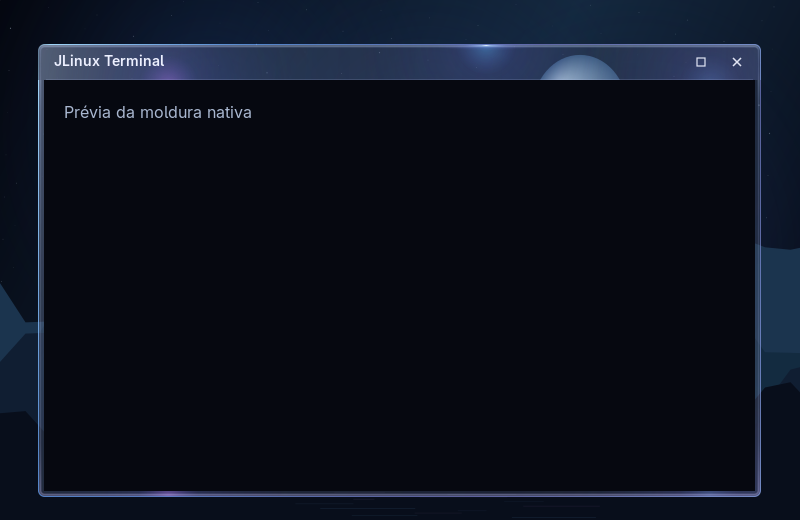
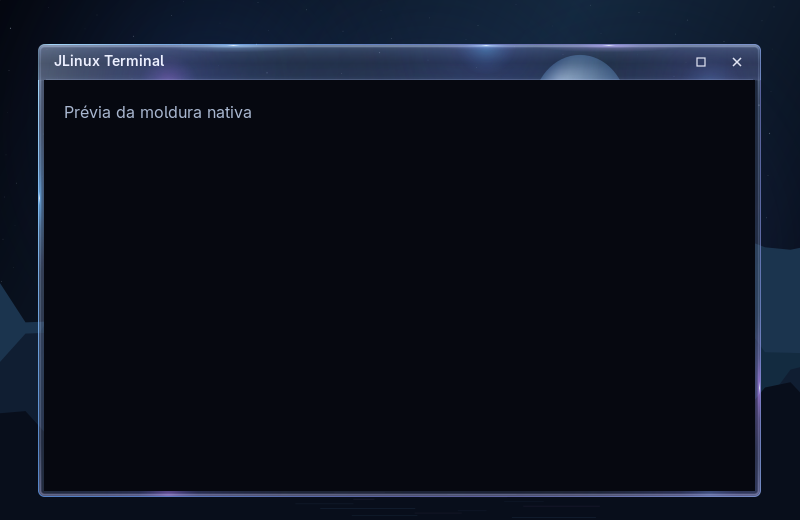
fix: emphasize glass depth and localized window reflections

diff --git a/src/effects/glass.c b/src/effects/glass.c
@@ -102,3 +102,34 @@ bool jlinux_glass_settings(struct jlinux_glass *effects) {
     }
     return true;
 }
+
+void jlinux_glass_window_reflections(cairo_t *cr, struct ui_rect rect, double radius, double header) {
+    cairo_save(cr); rounded(cr, rect, radius); cairo_clip(cr);
+    cairo_pattern_t *sheen = cairo_pattern_create_linear(0, rect.y, 0, rect.y + header);
+    cairo_pattern_add_color_stop_rgba(sheen, 0, .83, .91, 1, .20);
+    cairo_pattern_add_color_stop_rgba(sheen, .18, .59, .73, .95, .10);
+    cairo_pattern_add_color_stop_rgba(sheen, .52, .02, .04, .09, .08);
+    cairo_pattern_add_color_stop_rgba(sheen, .86, .18, .24, .42, .04);
+    cairo_pattern_add_color_stop_rgba(sheen, 1, .65, .72, .94, .12);
+    cairo_save(cr); cairo_rectangle(cr, rect.x, rect.y, rect.width, header); cairo_clip(cr);
+    cairo_set_source(cr, sheen); cairo_paint(cr); cairo_restore(cr); cairo_pattern_destroy(sheen);
+    const double lights[4][7] = {
+        {rect.x + rect.width * .27, rect.y + 1, 1, .09, .60, .80, 1},
+        {rect.x + rect.width * .79, rect.y + 1, 1, .09, .73, .65, 1},
+        {rect.x + 1, rect.y + rect.height * .34, .09, 1, .39, .72, 1},
+        {rect.x + rect.width - 1, rect.y + rect.height * .76, .09, 1, .73, .49, 1},
+    };
+    for (int i = 0; i < 4; i++) {
+        cairo_save(cr); cairo_translate(cr, lights[i][0], lights[i][1]);
+        cairo_scale(cr, lights[i][2], lights[i][3]);
+        cairo_pattern_t *light = cairo_pattern_create_radial(0, 0, 0, 0, 0, 76);
+        cairo_pattern_add_color_stop_rgba(light, 0, .93, .97, 1, .88);
+        cairo_pattern_add_color_stop_rgba(light, .09, lights[i][4], lights[i][5], lights[i][6], .60);
+        cairo_pattern_add_color_stop_rgba(light, .42, lights[i][4], lights[i][5], lights[i][6], .22);
+        cairo_pattern_add_color_stop_rgba(light, 1, lights[i][4], lights[i][5], lights[i][6], 0);
+        cairo_set_source(cr, light); cairo_paint(cr); cairo_pattern_destroy(light); cairo_restore(cr);
+    }
+    struct ui_rect inner = {rect.x + 1.5, rect.y + 1.5, rect.width - 3, rect.height - 3};
+    rounded(cr, inner, radius - 1.5); cairo_set_source_rgba(cr, .74, .85, 1, .17);
+    cairo_set_line_width(cr, .7); cairo_stroke(cr); cairo_restore(cr);
+}

diff --git a/tests/window-frame.c b/tests/window-frame.c
@@ -19,6 +19,20 @@ int main(int argc, char **argv) {
         jlinux_window_frame_focus(&frame, false); CHECK(frame.parts[0]->opacity < 1);
         jlinux_window_frame_focus(&frame, true); CHECK(frame.parts[0]->opacity == 1);
     }
+    void *pixels; uint32_t format; size_t stride;
+    CHECK(wlr_buffer_begin_data_ptr_access(frame.parts[0]->buffer, WLR_BUFFER_DATA_PTR_ACCESS_READ,
+        &pixels, &format, &stride));
+    uint32_t lit = *(uint32_t *)((unsigned char *)pixels + stride + 195 * 4);
+    wlr_buffer_end_data_ptr_access(frame.parts[0]->buffer);
+    effects.reflection = false;
+    CHECK(jlinux_window_frame_update(&frame, 711, 411, "JLinux Terminal", effects, false));
+    CHECK(wlr_buffer_begin_data_ptr_access(frame.parts[0]->buffer, WLR_BUFFER_DATA_PTR_ACCESS_READ,
+        &pixels, &format, &stride));
+    uint32_t plain = *(uint32_t *)((unsigned char *)pixels + stride + 195 * 4);
+    wlr_buffer_end_data_ptr_access(frame.parts[0]->buffer);
+    CHECK((lit >> 24) > (plain >> 24));
+    effects.reflection = true;
+    CHECK(jlinux_window_frame_update(&frame, 711, 411, "JLinux Terminal", effects, false));
     if (argc == 3 && !strcmp(argv[1], "--preview")) {
         cairo_surface_t *image = cairo_image_surface_create(CAIRO_FORMAT_ARGB32, 800, 520);
         cairo_t *cr = cairo_create(image); ui_wallpaper(cr, 800, 520);

diff --git a/src/renderer/window-frame.c b/src/renderer/window-frame.c
@@ -50,6 +50,10 @@ bool jlinux_window_frame_update(struct jlinux_window_frame *frame, int width, in
         int material_height = i == 0 ? header + JLINUX_FRAME_RADIUS : full_height;
         jlinux_glass_paint(cr, (struct ui_rect){.5, .5, full_width - 1, material_height - 1},
             JLINUX_FRAME_RADIUS, NULL, 0, 0, effects);
+        if (effects.reflection) {
+            jlinux_glass_window_reflections(cr,
+                (struct ui_rect){.5, .5, full_width - 1, full_height - 1}, JLINUX_FRAME_RADIUS, header);
+        }
         if (i == 0) {
             cairo_save(cr); cairo_rectangle(cr, 16, 3, full_width - 108, header - 6); cairo_clip(cr);
             ui_text(cr, title ? title : "JLinux", 16, 8, 14, true, 0xedf0ff); cairo_restore(cr);

diff --git a/src/effects/glass.h b/src/effects/glass.h
@@ -2,6 +2,7 @@
 #define JLINUX_GLASS_H
 #include "../toolkit/painter.h"
 struct jlinux_glass { bool blur, tint, reflection; };
+void jlinux_glass_window_reflections(cairo_t *cr, struct ui_rect rect, double radius, double header);
 bool jlinux_glass_settings(struct jlinux_glass *effects);
 void jlinux_glass_paint(cairo_t *cr, struct ui_rect rect, double radius,
     cairo_surface_t *backdrop, double origin_x, double origin_y,

diff --git a/TASKS.md b/TASKS.md
@@ -167,3 +167,9 @@ Brilho do contorno externo na ponta esquerda da barra reduzido de 0,95 para 0,40
 **Feedback visual do usuário:** base inicial de vidro, cabeçalhos retangulares, bordas iluminadas e cantos discretos aprovada como versão inicial após o reinício anterior. Preservar essa direção; isso não conclui o Glass completo.
 
 **WM-MAX · ativação realizada:** usuário autorizou reinício e a versão nova foi iniciada na sessão DRM principal, com Codex, painel e dock mapeados. Pendente avaliação física pelo usuário; testes automatizados já registrados acima.
+
+## Vidro mais evidente nas janelas — fix/window-glass-depth
+
+- Cabeçalho com reflexão em camadas e pontos de luz no topo/laterais, contorno interno fino para destacar espessura. Efeito exclusivo das molduras em effects/, sem alterar dock/barra, geometria ou hit testing. REFLECTION desativado remove o acabamento adicional; sem animação ou timer novo.
+- Oito testes release e ASan/UBSan passaram; teste do componente compara transparência do brilho com/sem reflexão. Prévia inspecionada e atualizada. Sem blur/refração nas molduras ou benchmark GPU/energia.
+- Sessão DRM reiniciada usando autorização do usuário, com Codex/painel/dock mapeados. Pendente avaliação visual do usuário.

diff --git a/docs/validation.md b/docs/validation.md
@@ -97,3 +97,7 @@ Prévia de componentes atualizada. Sessão DRM corrente preservada e ainda usa a
 ### Ativação da maximização na sessão principal
 
 Usuário autorizou novo reinício da sessão. Supervisor anterior encerrado normalmente e sessão iniciada com a versão feature/window-maximize via `jlinux-session --drm --codex`. Logs confirmam AMD Radeon/GLES2, saída HDMI-A-1 e Codex/wallpaper/painel/dock mapeados. Maximizar/restaurar e a correção da área útil agora estão no compositor da sessão principal; teste físico e avaliação do usuário continuam pendentes.
+
+## Reflexos adicionais das janelas — fix/window-glass-depth
+
+Oito testes release e ASan/UBSan passaram. Teste de moldura adicional confirma que desativar REFLECTION remove o brilho extra (comparação de alpha em ponto iluminado), mantendo a tonalização. Prévia nativa inspecionada. Nova versão aplicada por reinício autorizado da sessão DRM; Codex/painel/dock mapeados. Sem benchmark ou validação visual física pelo assistente. Blur/refração nas molduras permanecem pendentes.

diff --git a/docs/visual-style.md b/docs/visual-style.md
@@ -65,3 +65,7 @@ O cabeçalho das janelas permanece retangular, com vidro semelhante ao dock. Con
 ### Maximização e área útil
 
 O cabeçalho aprovado ganha botão maximizar/restaurar junto ao fechar. Maximizar mantém a moldura e ocupa a área útil restante da saída central, respeitando barra e dock; restaurar recupera posição/tamanho e mantém o cabeçalho acessível caso a área útil tenha mudado. O dock fica centralizado na área abaixo da barra. Multimonitor completo continua pendente.
+
+### Profundidade adicional nas molduras
+
+Cabeçalho retangular e cantos de 6 px preservados. Reflexo vertical em camadas, dois pontos de luz no topo e dois nas bordas laterais reforçam o aspecto de vidro. Contorno interno fino realça espessura. O acabamento adicional pertence a REFLECTION e não altera o material do dock/barra ou o conteúdo do aplicativo. São reflexos estáticos estilizados, não simulação óptica ou blur.
